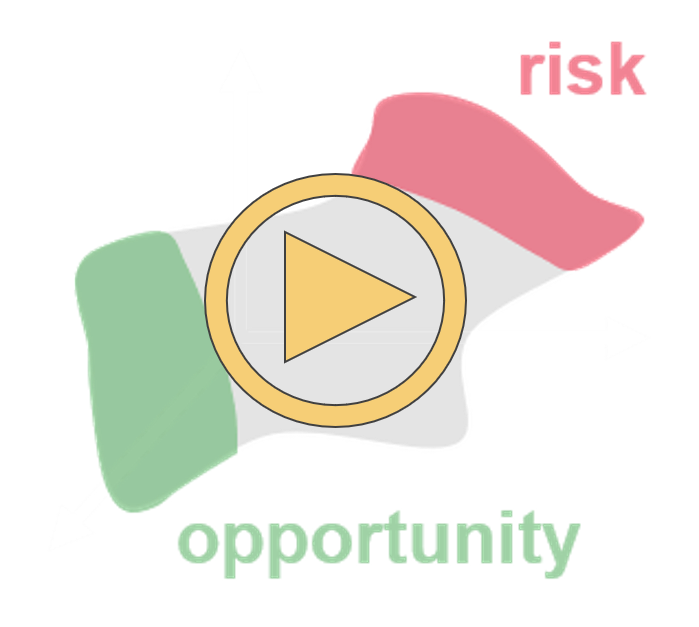
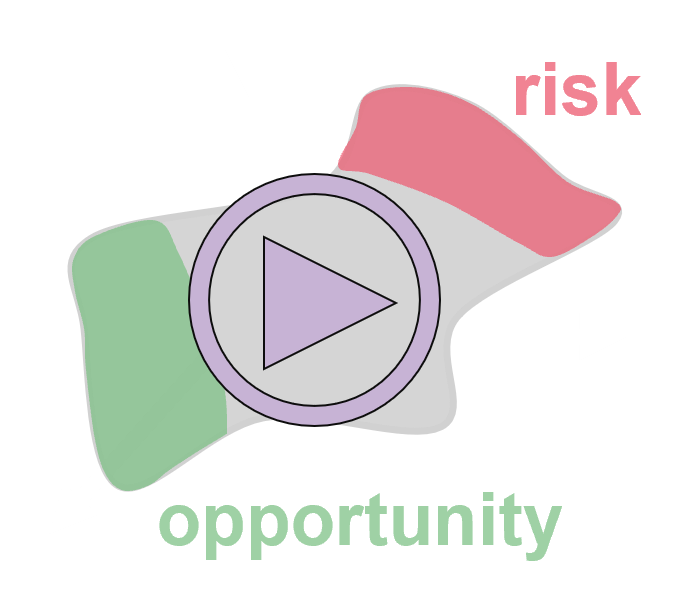
minor enhancements

diff --git a/docs/conf.py b/docs/conf.py
@@ -229,7 +229,7 @@ html_theme_options = {
       {"name": "Bioindustrial-Park", "url": "https://github.com/BioSTEAMDevelopmentGroup/Bioindustrial-Park"},
       {"name": "How2STEAM", "url": "https://mybinder.org/v2/gh/BioSTEAMDevelopmentGroup/How2STEAM/HEAD"},
       {"name": "QSDsan", "url": "https://qsdsan.readthedocs.io/en/latest/"},
-      {"name": "Channel", "url": "https://www.youtube.com/@yoelcortes-pena2100/videos"},
+      {"name": "YouTube Channel", "url": "https://www.youtube.com/@yoelcortes-pena2100/videos"},
   ]
 }
 
